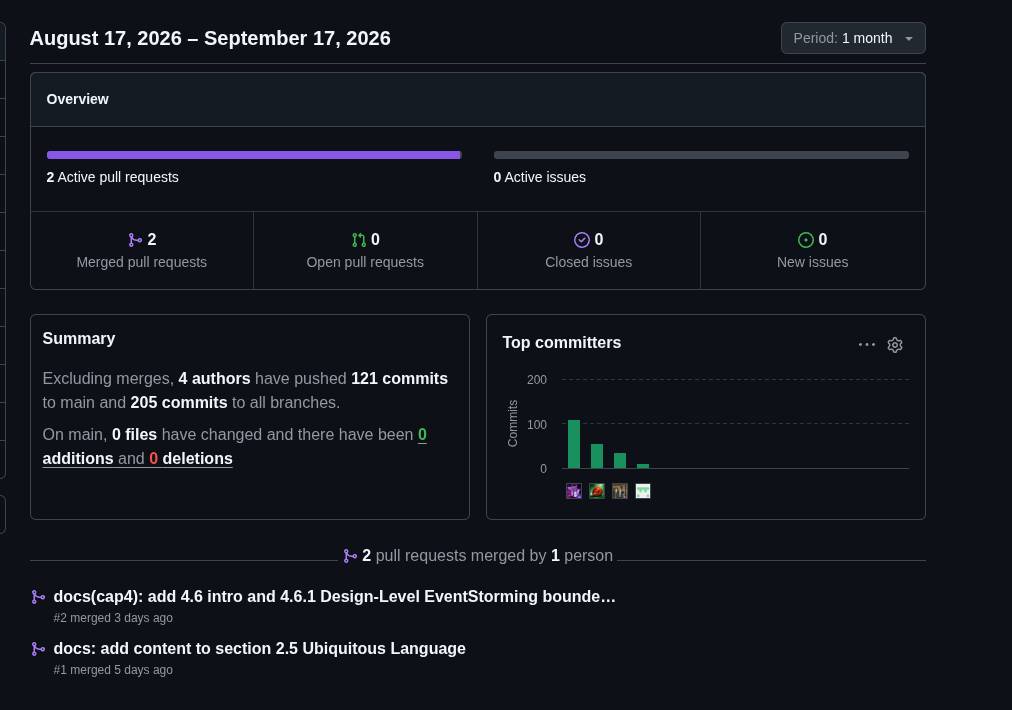
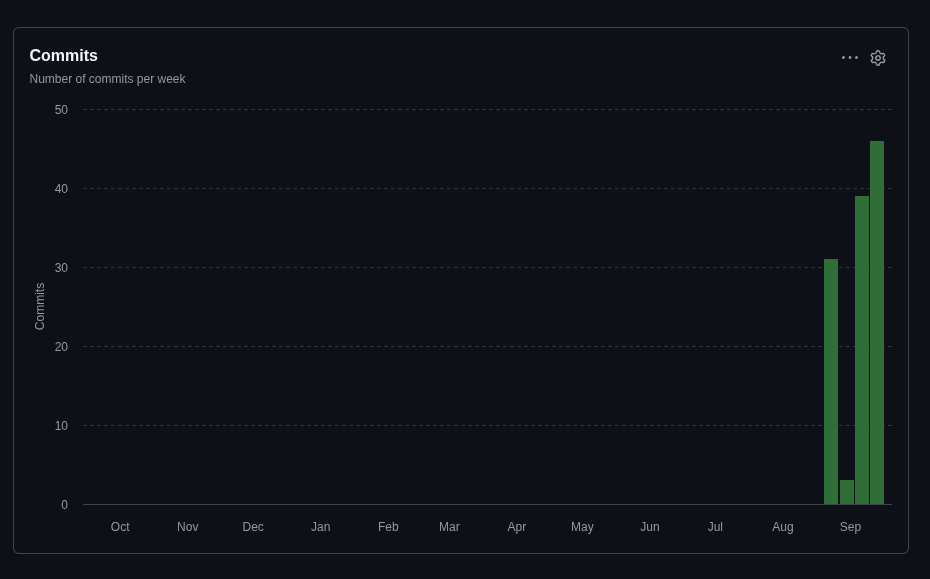
docs: replace pulse capture with weekly commits graph

diff --git a/report/front-matter/03-project-report-collaboration-insights.md b/report/front-matter/03-project-report-collaboration-insights.md
@@ -10,6 +10,6 @@ Para la entrega del avance 1, se procede a mostrar el análisis de colaboración
 
 <div align="center"><img src="../assets/insights/contributors-av1.png" width ="100%"></div>
 
-La siguiente imagen representa el resumen de todos los commits realizados en el repositorio a lo largo del periodo comprendido entre el 27 de agosto y el 17 de septiembre: 4 autores, 121 commits a la rama main y 205 commits al total de ramas (incluyendo feature branches), además de 2 pull requests mergeadas.
+La siguiente imagen representa el número de commits por semana realizados en el repositorio a lo largo del periodo comprendido entre agosto y septiembre, evidenciando la concentración del trabajo durante las semanas de desarrollo del primer avance.
 
 <div align="center"><img src="../assets/insights/pulse-av1.png" width ="100%"></div>
